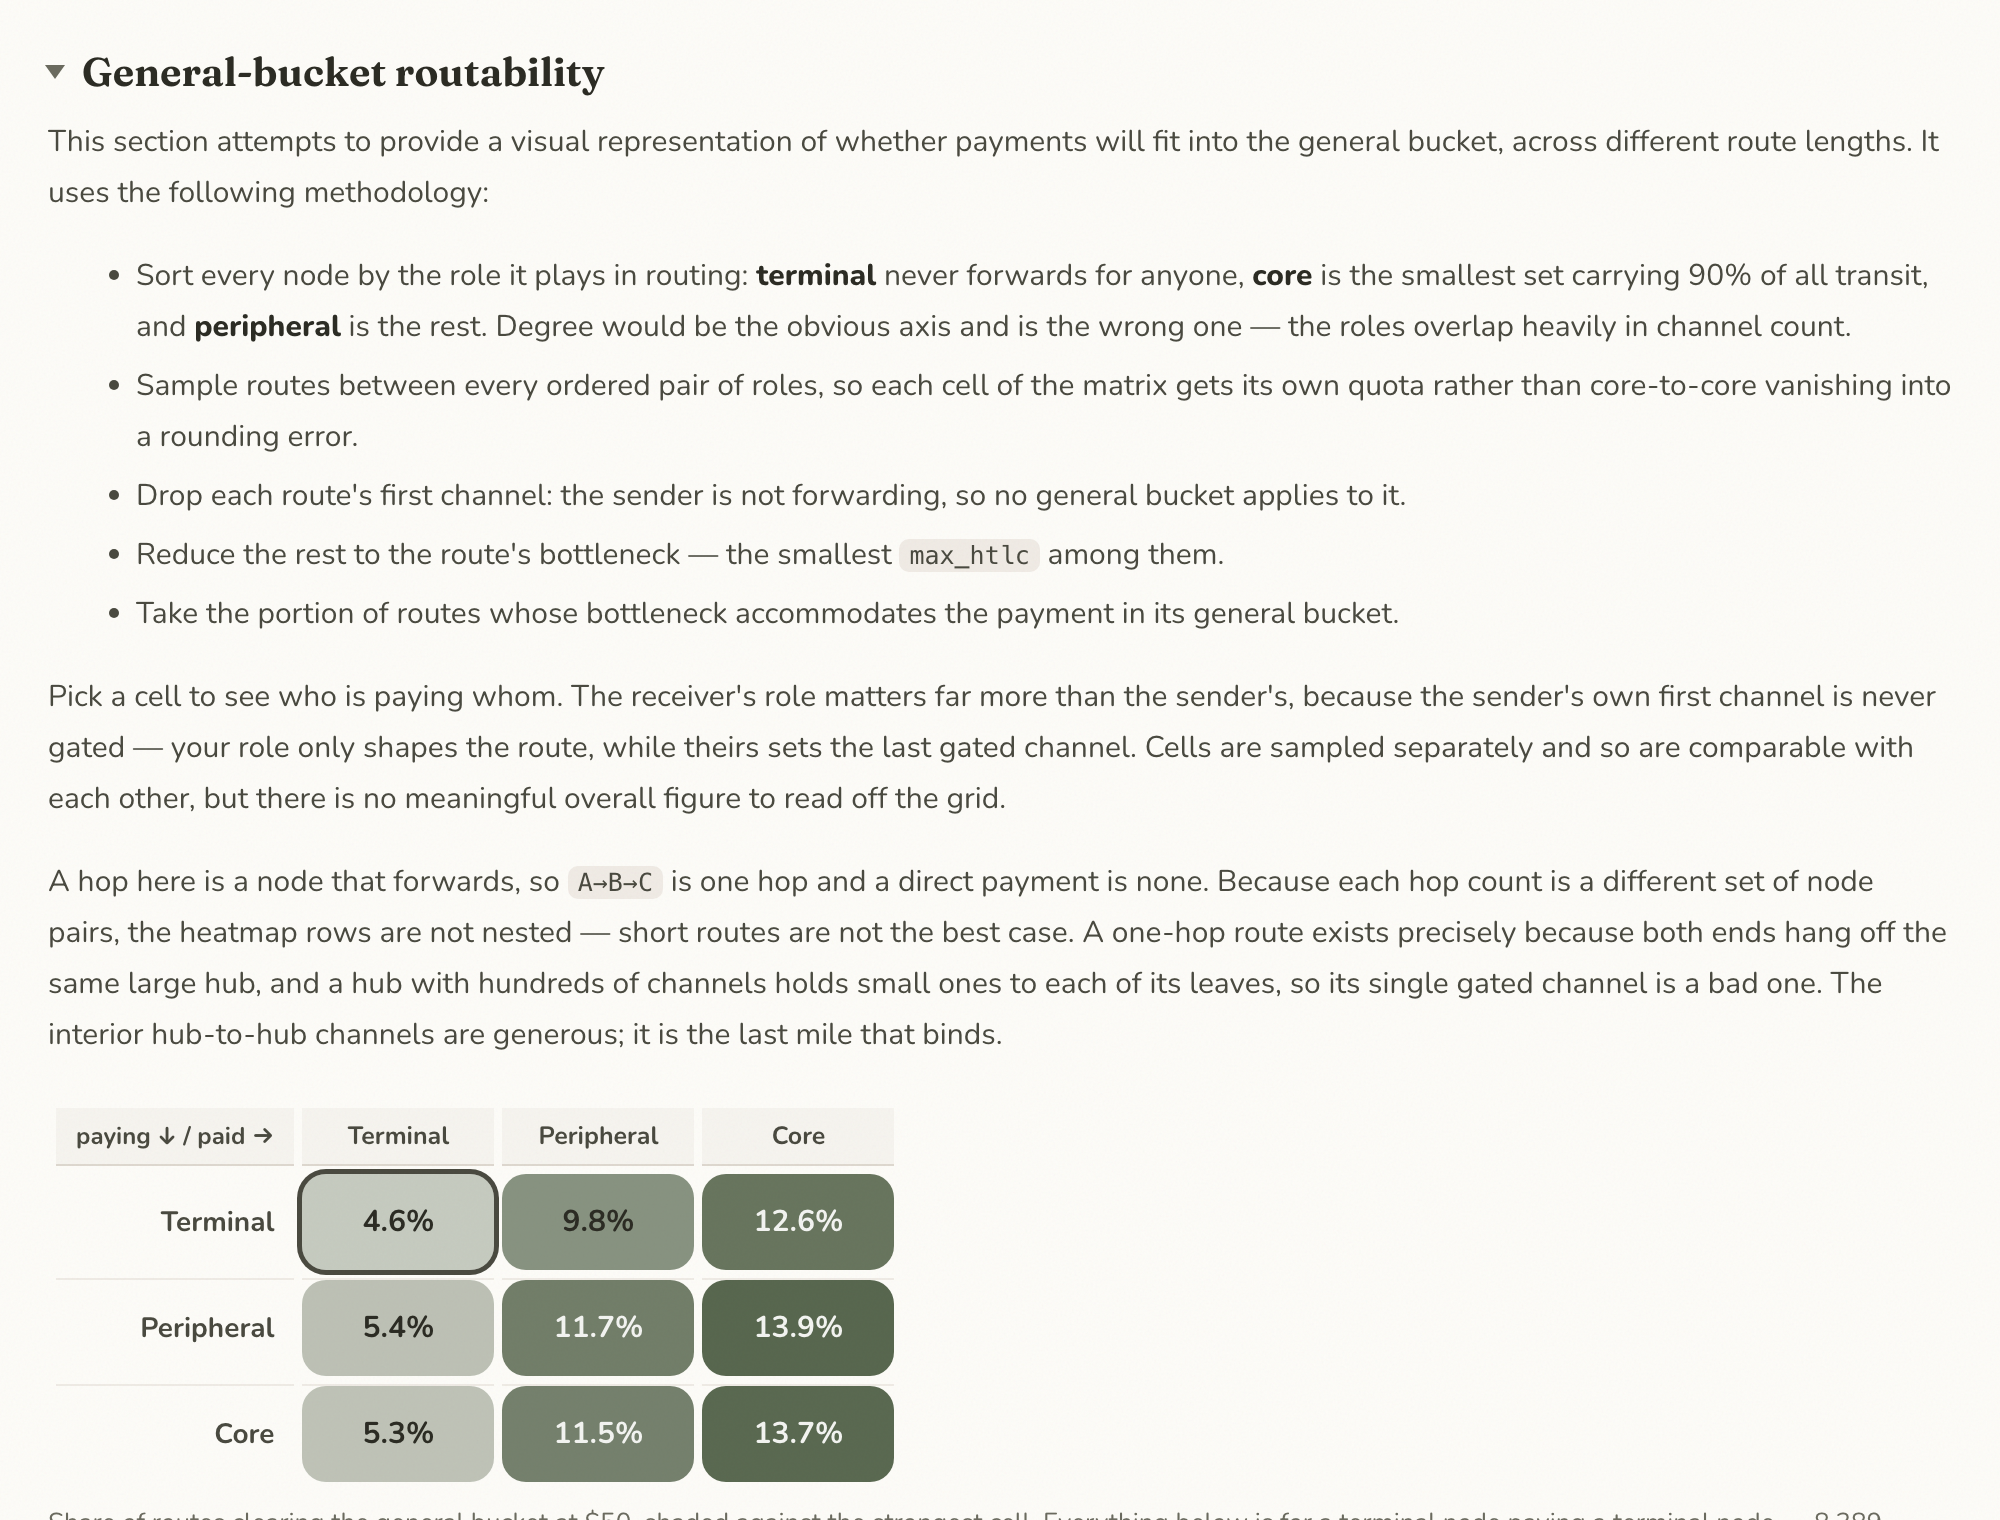
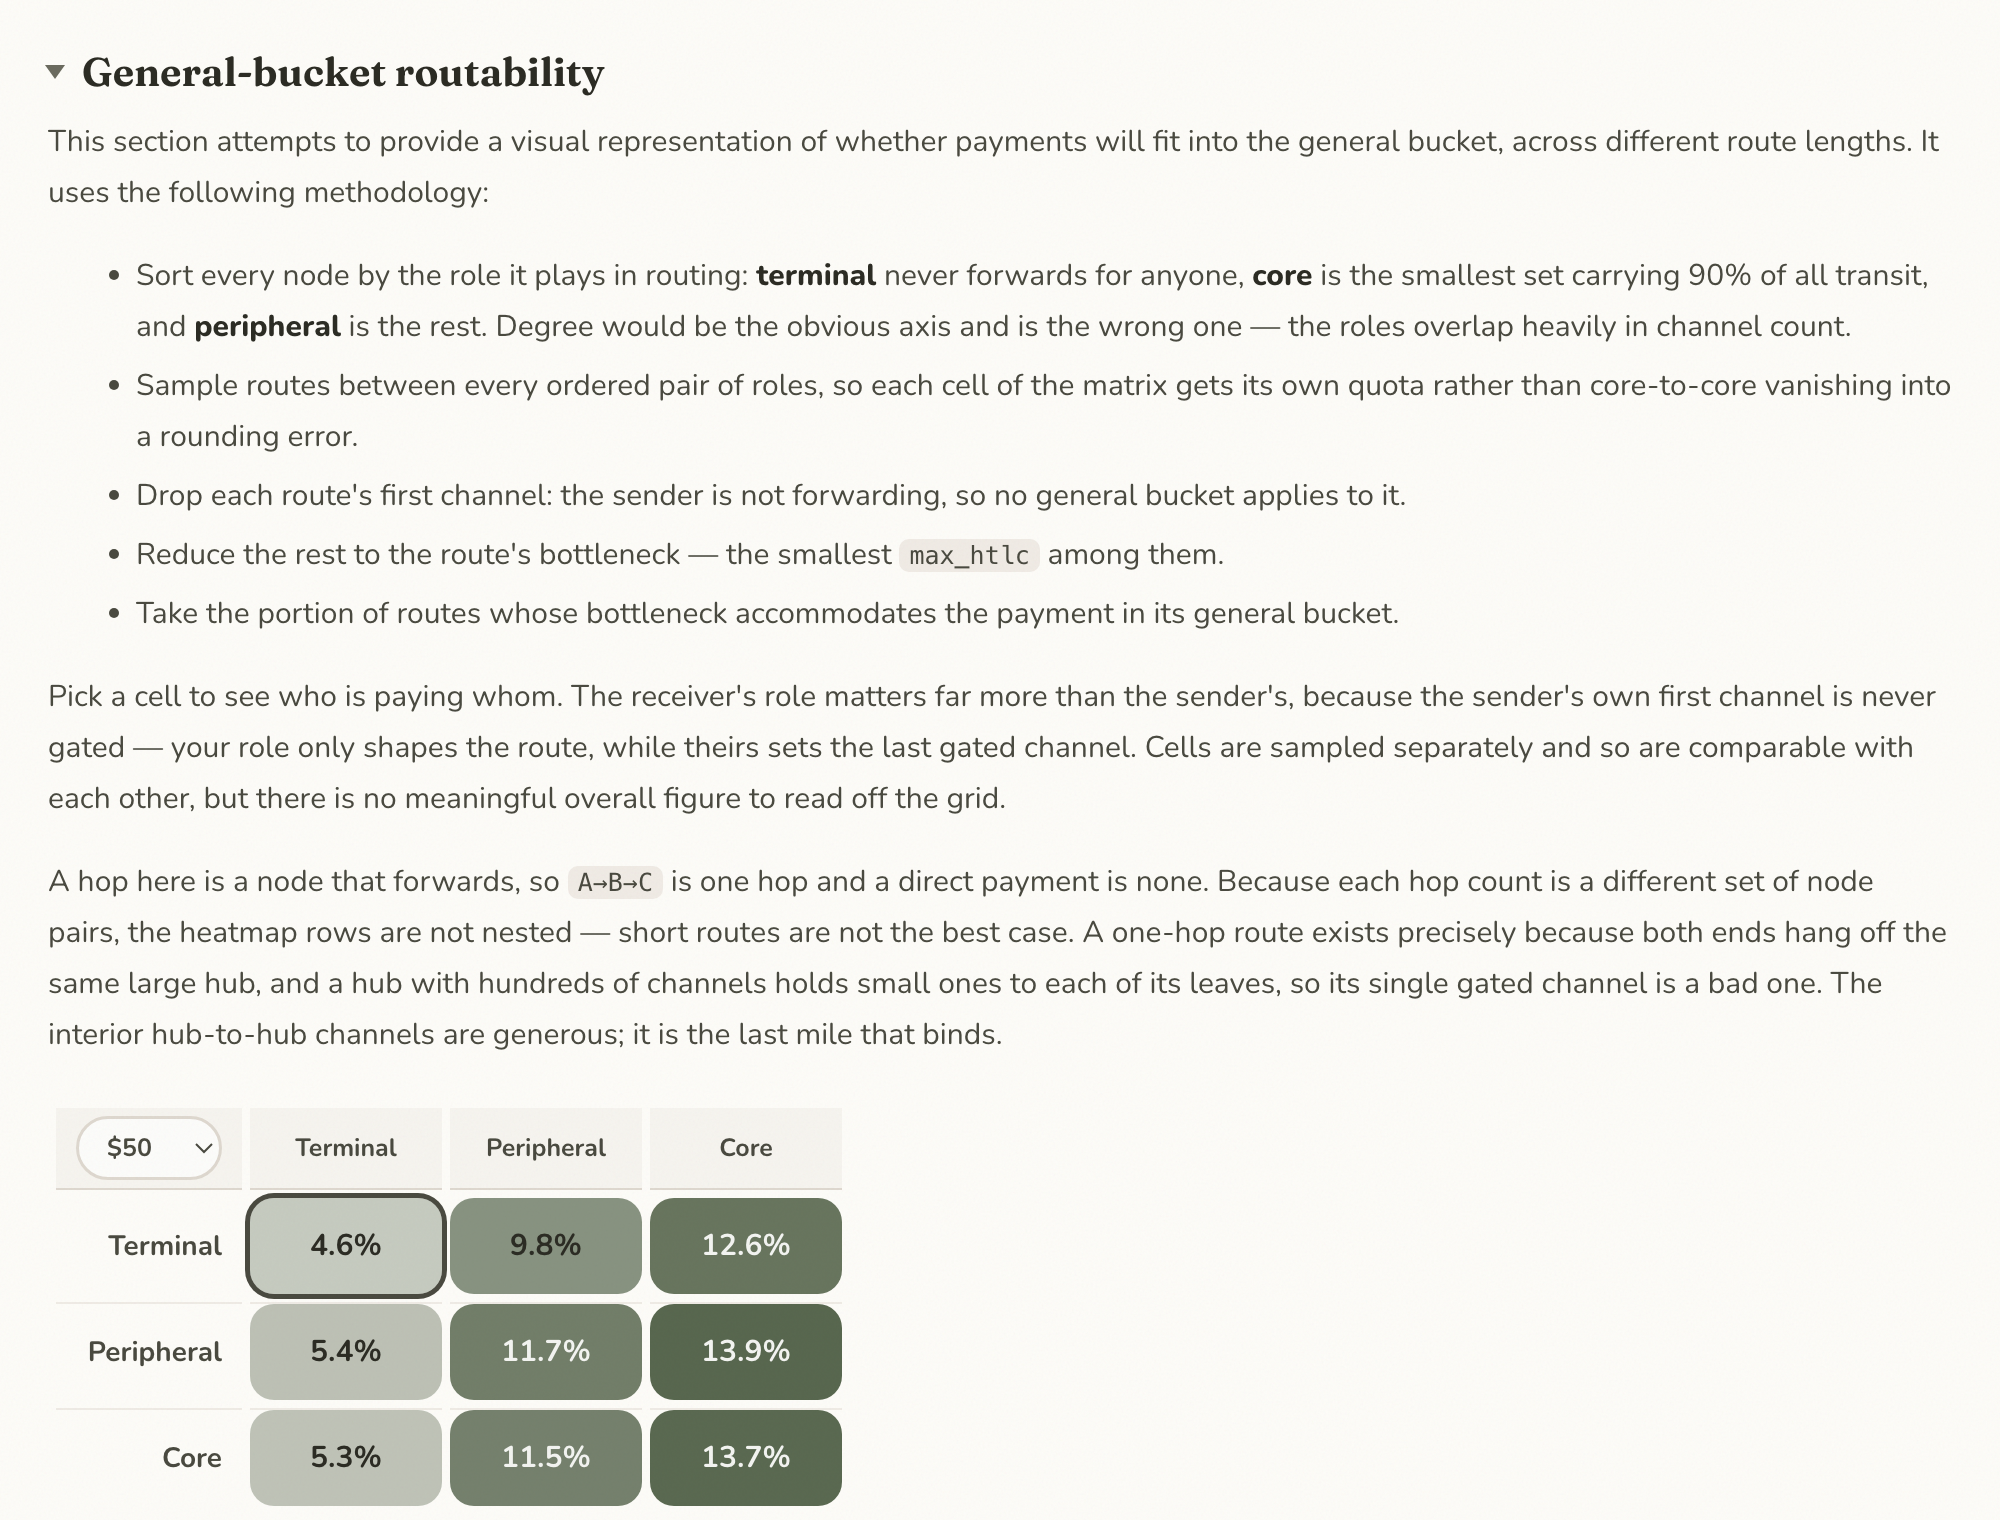
Put the payment size in the matrix corner
The matrix is the first thing in the section and is shaded at the payment
size, but the only way to change that was the number input further down the
page. The corner cell now holds a dropdown, as the percentile table's corner
holds its price.

Presets match the distribution table's thresholds. Dragging the chart or the
heatmap still lands on arbitrary amounts, so the live value joins the option
list when it is not already a preset, and options are labelled with the same
precision as the input -- fmtUsd would round a dragged $7.50 to a "$8" label
sitting on a 7.5 value.

Dragging goes through setPayment rather than a full render, so it now
refreshes the matrix too; without that the grid silently kept describing the
amount the drag started from.

Changed region(s): [[0.031, 0.7421, 0.465, 1.0], [0.899, 0.9895, 0.93, 1.0], [0.496, 0.9895, 0.527, 1.0]]

diff --git a/routability.js b/routability.js
@@ -43,6 +43,10 @@
   const TYPICAL = [10, 200];
   const ROUTE_HOPS = 3;
   const ALL_HOPS = [1, 2, 3, 4, 5, 6];
+  // Presets for the matrix's corner dropdown, matching the distribution
+  // table's thresholds. Dragging still lands on arbitrary amounts, which the
+  // dropdown picks up as an extra option.
+  const PAYMENTS = [1, 5, 10, 25, 50, 100, 250, 500];
   const HEAT_COLS = 25;          // half-decade-ish columns across the span
   const CURVE_POINTS = 160;
 
@@ -343,6 +347,10 @@
       refs.payInput.value = roundForInput(state.payUsd);
     }
     $("rout-tiles").replaceChildren(renderTiles());
+    // The matrix is shaded at the payment size too, so a drag has to carry it
+    // along or the grid silently describes the old amount.
+    $("rout-matrix").replaceChildren(renderMatrix());
+    renderCaption();
   }
 
   // Dragging lands on arbitrary reals; show something a person would type.
@@ -570,8 +578,19 @@
     const wrap = el("div", "matrix-wrap");
     const table = el("table", "persona-matrix");
 
+    // The corner carries the payment size, as the percentile table's corner
+    // carries its price. Dragging the chart or heatmap can land between the
+    // presets, so the live value joins the list when it is not already there.
+    const corner = el("th", "matrix-corner");
+    const options = PAYMENTS.includes(state.payUsd)
+      ? PAYMENTS
+      : [...PAYMENTS, state.payUsd].sort((a, b) => a - b);
+    // Not fmtUsd: it rounds to whole dollars and abbreviates thousands, so a
+    // dragged $7.50 would be labelled $8 against its own value.
+    corner.appendChild(select("Payment size", options, state.payUsd,
+      (v) => "$" + roundForInput(v), (v) => { state.payUsd = clampUsd(v); }));
     const head = el("tr");
-    head.appendChild(el("th", "matrix-corner", "paying ↓ / paid →"));
+    head.appendChild(corner);
     for (const t of TIERS) {
       const th = el("th", null, t.label);
       th.title = t.blurb;
@@ -644,6 +663,16 @@
   const tierLabel = (key) =>
     (TIERS.find((t) => t.key === key) || { label: key }).label;
 
+  // The corner cell holds the payment dropdown, so the axes are named here.
+  // Everything below the matrix describes the selected cell, so say which.
+  function renderCaption() {
+    $("rout-caption").textContent =
+      "Rows are who pays, columns who is paid, shaded against the strongest " +
+      "cell. Everything below is for a " + tierLabel(state.src).toLowerCase() +
+      " node paying a " + tierLabel(state.dst).toLowerCase() + " node — " +
+      fmtInt((cell().all || {}).total || 0) + " sampled routes.";
+  }
+
   // ---------------- tiles ----------------
 
   function renderTiles() {
@@ -692,13 +721,7 @@
     $("rout-legend").replaceChildren(renderLegend());
     $("rout-heat").replaceChildren(renderHeatmap(heatColumns()));
     $("rout-heat-legend").replaceChildren(renderRampLegend());
-    // Everything below the matrix describes the selected cell, so say which.
-    $("rout-caption").textContent =
-      "Share of routes clearing the general bucket at " + fmtUsd(state.payUsd) +
-      ", shaded against the strongest cell. Everything below is for a " +
-      tierLabel(state.src).toLowerCase() + " node paying a " +
-      tierLabel(state.dst).toLowerCase() + " node — " +
-      fmtInt((cell().all || {}).total || 0) + " sampled routes.";
+    renderCaption();
   }
 
   // A legend is always present for two series; the swatch carries identity and

diff --git a/style.css b/style.css
@@ -450,12 +450,7 @@ th.group-start, td.group-start { border-left: 1px solid var(--grid); }
   white-space: nowrap;
 }
 .persona-matrix th.row-head { text-align: right; }
-.matrix-corner {
-  font-size: 12px;
-  font-weight: 400;
-  color: var(--muted);
-  text-align: right;
-}
+.matrix-corner { text-align: right; padding: 4px; }
 .matrix-cell { padding: 0; }
 .matrix-btn {
   font: inherit;
